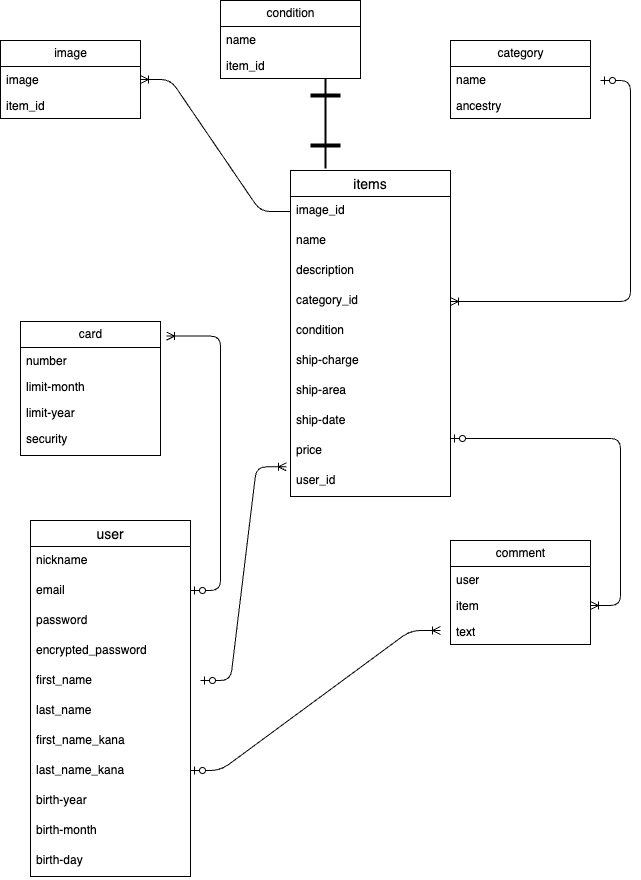
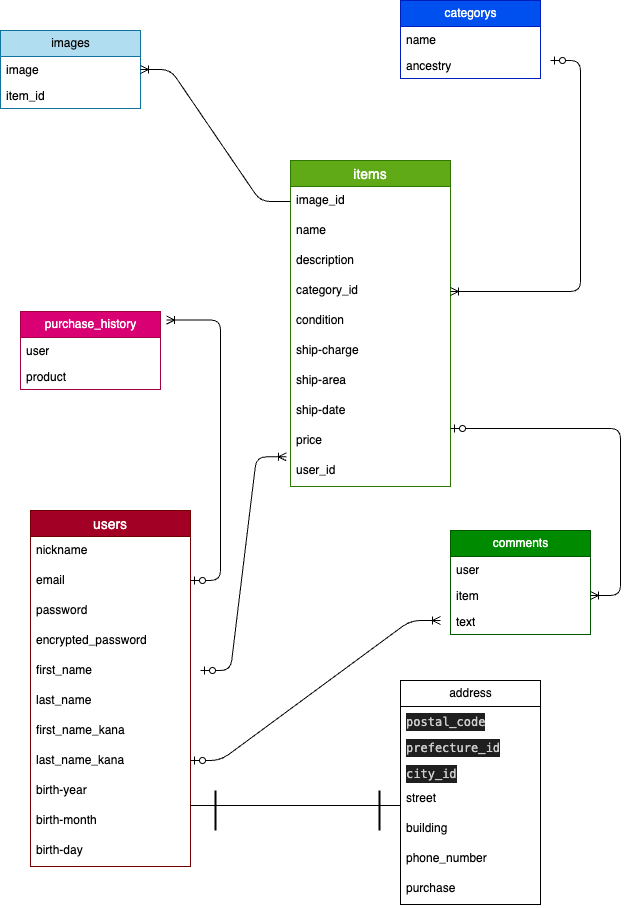
修正

diff --git a/README.md b/README.md
@@ -5,47 +5,35 @@
 |Column|Type|Options|
 |------------|--------|-------|
 |nickname    |string |null: false|
-|mail        |string |null: false|
-|password    |string |null: false|
+|mail        |string |null: false, default: ""|
 |encrypted_password    |string |null: false|
 |first_name  |string |null: false|
 |last_name   |string |null: false|
 |first_kana  |string |null: false|
 |first_kana  |string |null: false|
-|birth_year  |integer|null: false|
-|birth_month |integer|null: false|
-|birth_day   |integer|null: false|
+|birthday    |date   |null: false|
 
 ### Assosiation
-- has_many :cards
+
 - has_many :items
 - has_many :comments
-
-## cardsテーブル
-|Column|Type|Options|
-|------|----|-------|
-|user_id    |integer|null: false, foreign_key: true|
-|limit_month|integer|null: false|
-|limit_year |integer|null: false|
-|security   |integer|null: false|
-
-### Assosiation
-- belongs_to :user
+- has_many :purchase_history
+- has_one :address
 
 ## itemsテーブル
 |Column|Type|Options|
 |------|----|-------|
-|image_id      |integer|null: false, foreign_key: true|
+
 |name          |string |null: false, limit:40|
 |description   |text   |null: false, limit:1000|
 |category_id   |integer|null: false, foreign_key: true|
 |condition     |string|
 |ship_charge   |string|null: false|
-|ship_area     |string|null: false|
-|ship_date     |string|null: false|
-|ship_method   |string|null: false|
+|ship_area_id  |integer |null: false, foreign_key: true |
+|ship_date_id  |integer |null: false, foreign_key: true |
+|ship_method_id|integer |null: false, foreign_key: true |
 |price         |integer|null: false, foreign_key: true|
-|user_id       |integer|null: false, foreign_key: true|
+|user          |references|null: false, foreign_key: true|
 
 ### Assosiation
 - belongs_to :user
@@ -53,6 +41,21 @@
 - has_many :comments
 - has_many :images
 - has_one :condition
+
+
+## addressテーブル
+|Column|Type|Options|
+|------|----|-------|
+|postal_code   |string |null: false|
+|prefecture_id   |integer |null: false|
+|city_id  |integer|null: false|
+|street    |string|null: false|
+|building   |string|null: false|
+|phone_number  |string|null: false, foreign_key: true |
+|purchase  |references |null: false, foreign_key: true |
+
+### Assosiation
+- belongs_to :user
 
 ## commentsテーブル
 |Column|Type|Options|
@@ -63,15 +66,6 @@
 
 ### Assosiation
 - belongs_to :user
-- belongs_to :item
-
-## conditionテーブル
-|Column|Type|Options|
-|------|----|-------|
-|name   |string |null: false|
-|item_id|integer|null: false, foreign_key: true|
-
-### Assosiation
 - belongs_to :item
 
 ## categoryテーブル
@@ -91,3 +85,12 @@
 
 ### Assosiation
 - belongs_to :item
+
+## purchase_historyテーブル
+|Column|Type|Options|
+|------|----|-------|
+|user   |references|null: false, foreign_key: true|
+|product|references|null: false, foreign_key: true|
+
+### Assosiation
+- belongs_to :user
